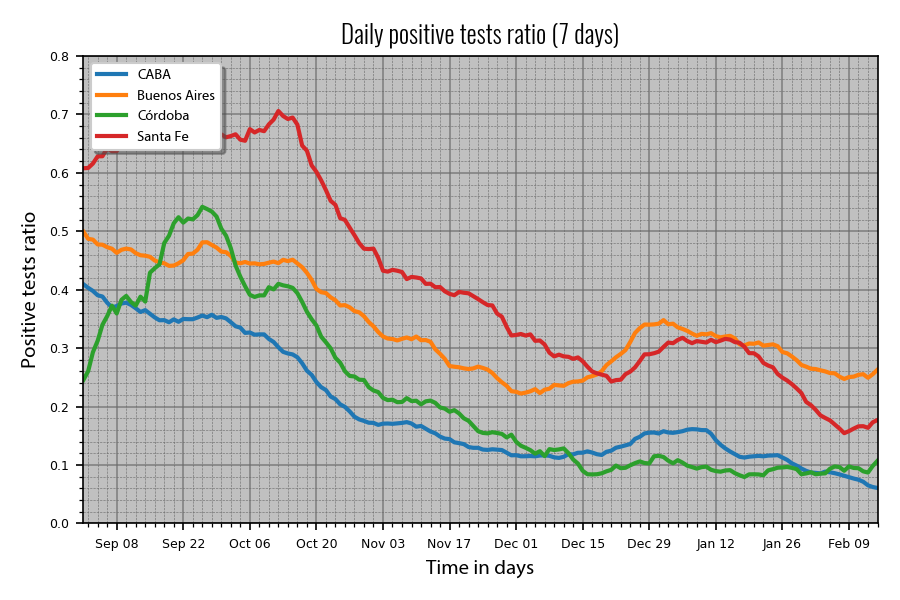
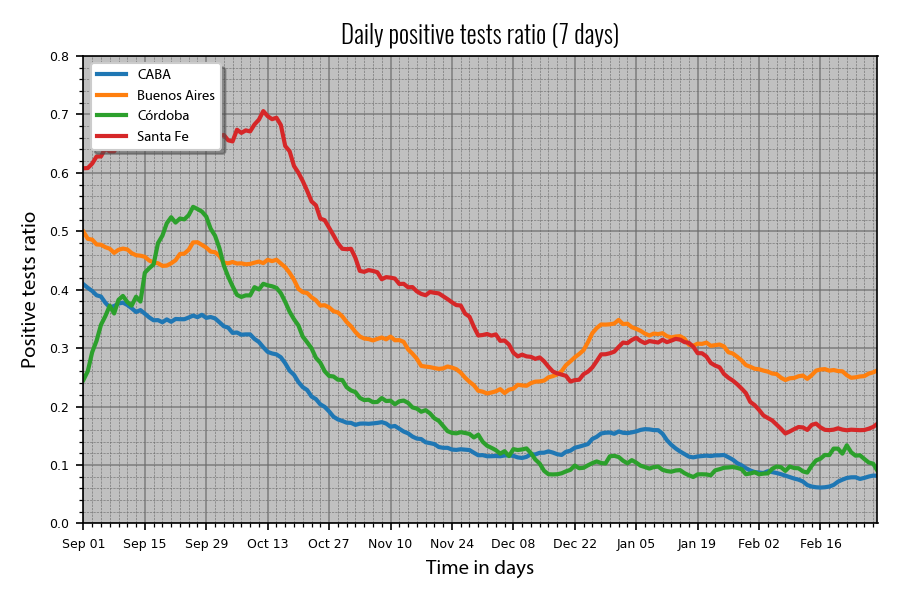
Updating testing charts...

Changed region(s): [[0.0622, 0.09, 0.9956, 0.93]]

diff --git a/COVID-19_DataGobAr_TestsAnalysis.py b/COVID-19_DataGobAr_TestsAnalysis.py
@@ -22,9 +22,9 @@ chartPath = "Argentina_Data/actual_charts/testing/"
 colorlist = ["orange", "tab:blue", "tab:red", "tab:green"]
 
 dataStartDate = "2020-02-11"
-dataEndDate = "2021-02-21"
+dataEndDate = "2021-03-07"
 wantedStartDate = "2020-09-01"
-wantedEndDate = "2021-02-15"
+wantedEndDate = "2021-03-01"
 dataPeriod = pd.date_range(dataStartDate, dataEndDate)
 plotScale = "linear"
 

diff --git a/README.md b/README.md
@@ -1,6 +1,6 @@
 # Analysis and plotting of COVID-19 data
 
-This is a very little piece of code in [Python](https://www.python.org) to analyse through plots
+This is a very little piece of code in [Python](https://www.python.org) to analyze through plots
 the data in the [2019 Novel Coronavirus COVID-19 (2019-nCoV) Data Repository by Johns
 Hopkins CSSE](https://github.com/CSSEGISandData/COVID-19) by regions. Or the data from [National
 Reports](https://www.argentina.gob.ar/coronavirus/informe-diario) published in Argentina.
